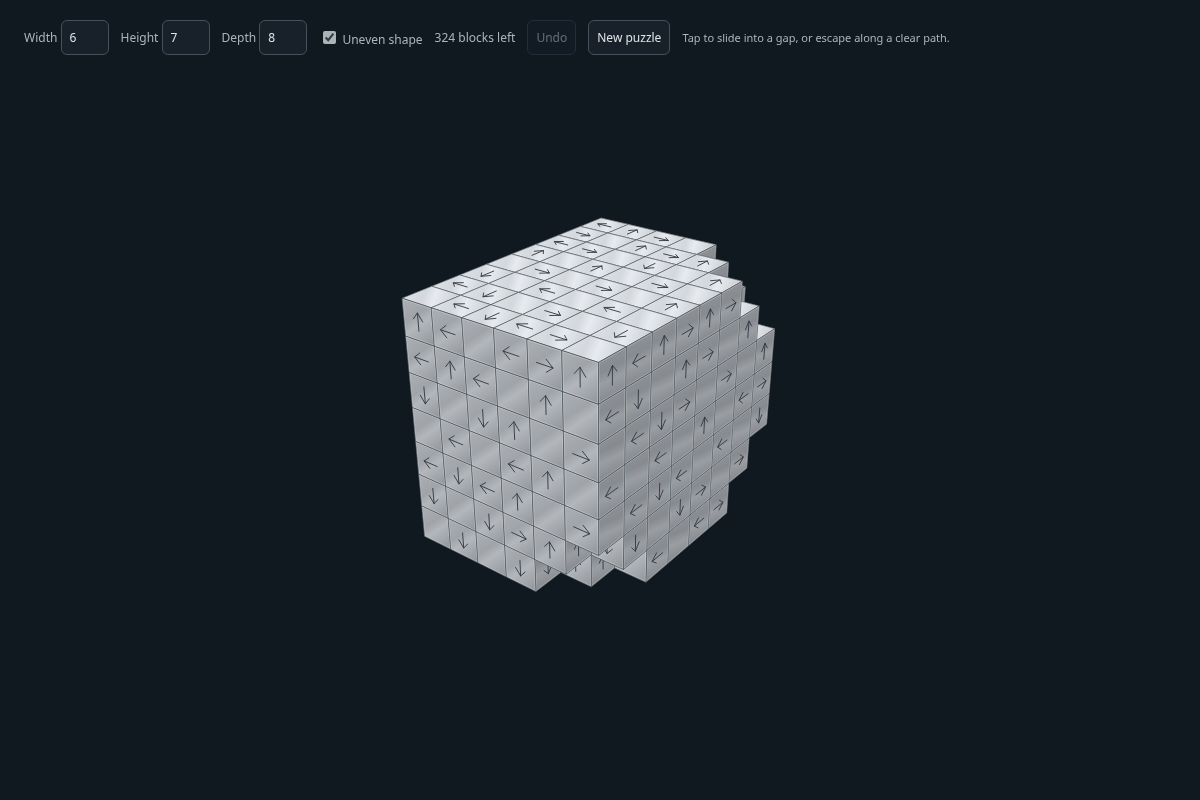
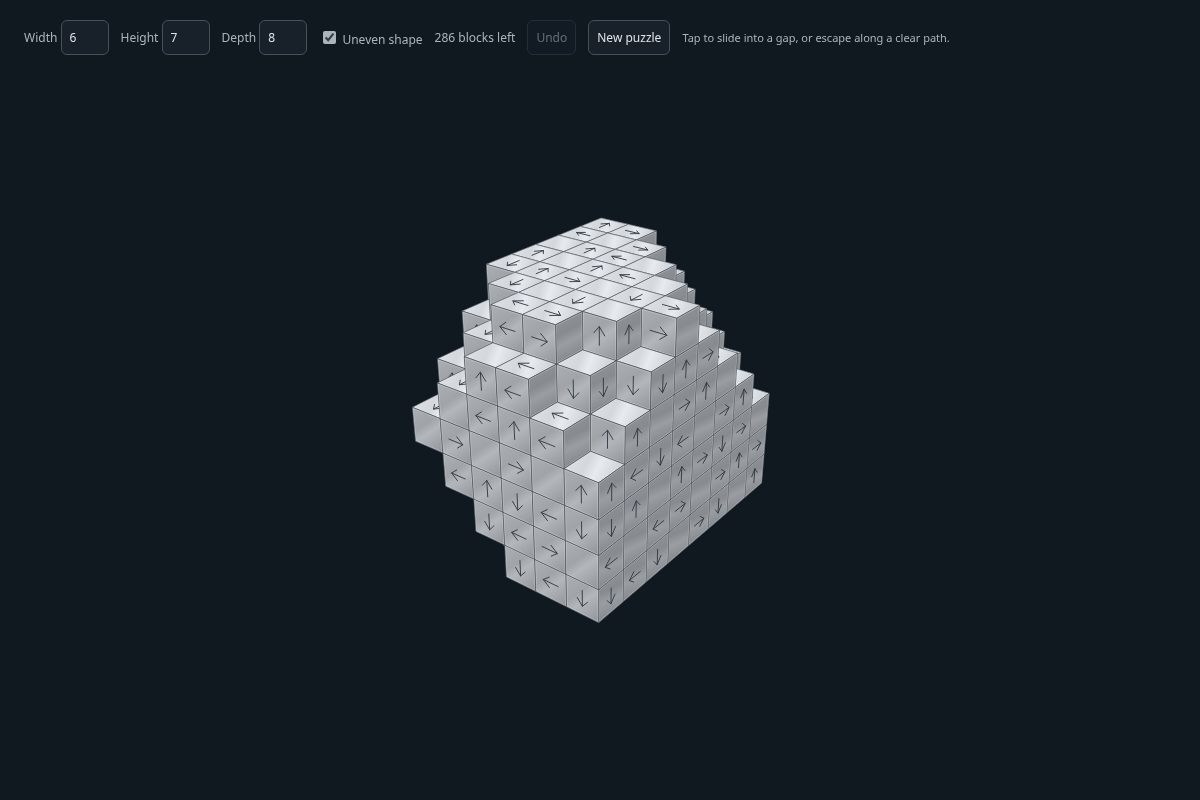
Increase variation in uneven puzzle shapes

Changed region(s): [[0.3083, 0.2812, 0.6475, 0.625], [0.3392, 0.5625, 0.555, 0.7812], [0.5858, 0.5312, 0.6475, 0.6562]]

diff --git a/game.js b/game.js
@@ -183,11 +183,19 @@ function undoMove(currentSession){
 }
 function planAssembly(dimensions,random=Math.random,uneven=false){
  const allBlocks=[],lookup=new Map(),maxSize=Math.max(...dimensions);
- // Clip a few corners to create a stepped outline while keeping the interior connected.
- const corners=uneven?Array.from({length:3},()=>dimensions.map(()=>random()<.5?0:1)):[];
+ // Cut four distinct corners at varied depths to form a more irregular outline.
+ const corners=[];
+ if(uneven){
+  const available=Array.from({length:8},(_,i)=>[i&1,(i>>1)&1,(i>>2)&1]);
+  const maxCut=Math.min(5,Math.floor(Math.min(...dimensions)/2));
+  for(let i=0;i<4;i++){
+   const index=Math.floor(random()*available.length),corner=available.splice(index,1)[0];
+   corners.push({corner,depth:i===0?maxCut:Math.max(2,maxCut-(random()<.5?1:0))});
+  }
+ }
  for(let x=0;x<dimensions[0];x++)for(let y=0;y<dimensions[1];y++)for(let z=0;z<dimensions[2];z++){
   const pos=[x,y,z];
-  if(corners.some(corner=>pos.reduce((sum,v,i)=>sum+(corner[i]?dimensions[i]-1-v:v),0)<=1))continue;
+  if(corners.some(({corner,depth})=>pos.reduce((sum,v,i)=>sum+(corner[i]?dimensions[i]-1-v:v),0)<=depth))continue;
   const block={id:allBlocks.length,pos,dir:null,removed:false};allBlocks.push(block);lookup.set(positionKey(pos),block);
  }
  const layer=block=>Math.min(...block.pos.map((v,i)=>Math.min(v,dimensions[i]-1-v))),removal=[];

diff --git a/README.md b/README.md
@@ -16,7 +16,7 @@ Open [http://localhost:8000](http://localhost:8000). Press `Ctrl+C` in the termi
 
 ## Play
 
-- Set **Width**, **Height**, and **Depth** independently, from 5 to 15 blocks. Choose **Uneven shape** for a shape with stepped corners, then select **New puzzle**.
+- Set **Width**, **Height**, and **Depth** independently, from 5 to 15 blocks. Choose **Uneven shape** for a shape with deeper, varied stepped corners, then select **New puzzle**.
 - Drag the puzzle to rotate it. Scroll to zoom, or pinch on a touch screen.
 - Tap or click a block to move it along its arrow. It flies out if its path is clear, slides into a gap if there is room, or stays put if the next block is in the way.
 - Select **Undo** to reverse a move. Undo is unlimited for the current puzzle.
